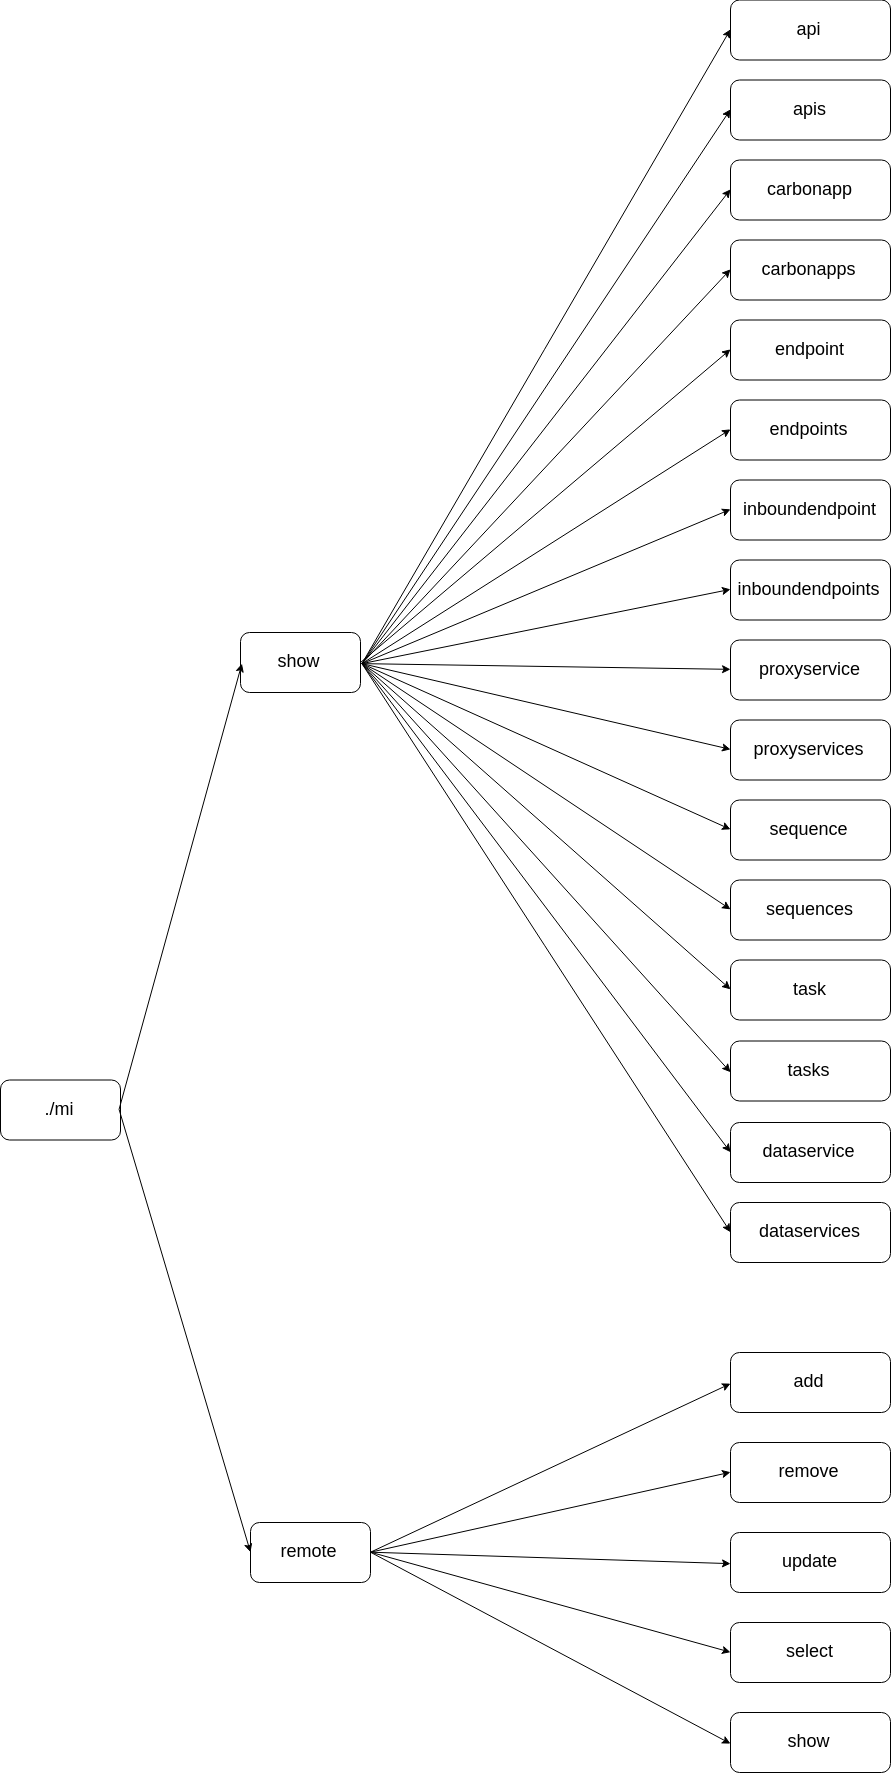
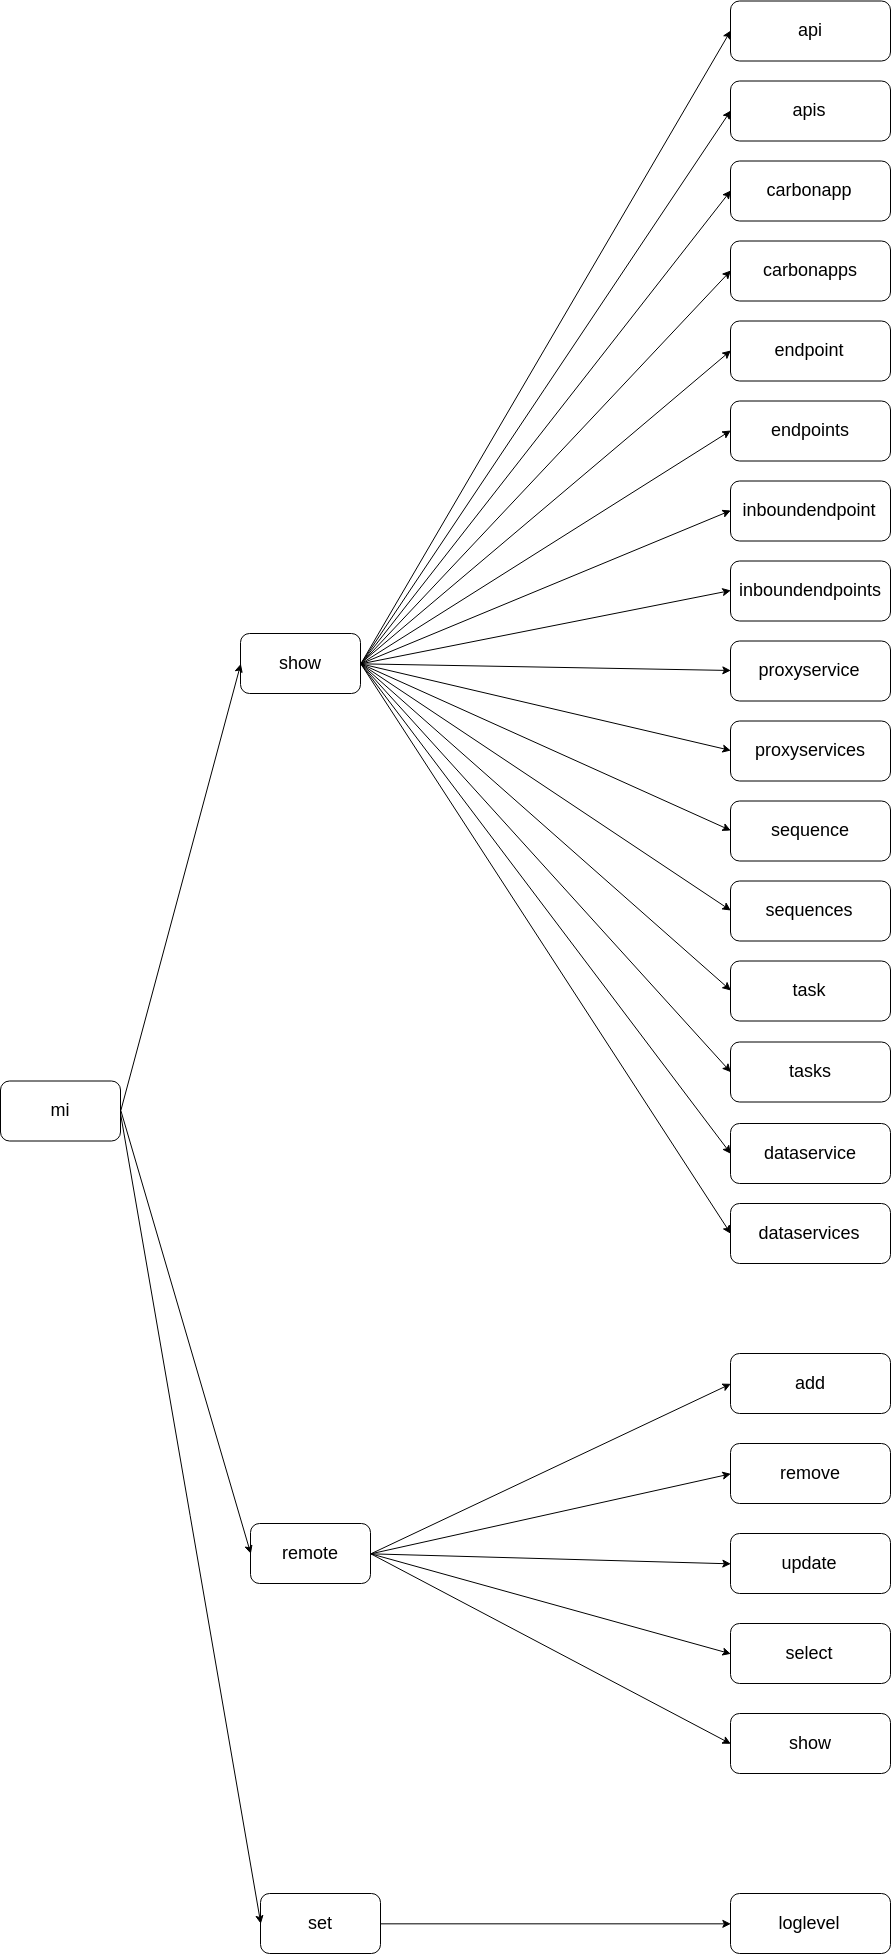
Update cli command tree diagram

diff --git a/doc/mi-cli-command-tree.md b/doc/mi-cli-command-tree.md
@@ -24,3 +24,10 @@ remote update [nick-name] [host] [port]
 remote select [nick-name]
 remote show
 ```
+
+#### set
+```
+set loglevel [logger-name] [logging-level]
+set loglevel [logging-level]
+remote show
+```
